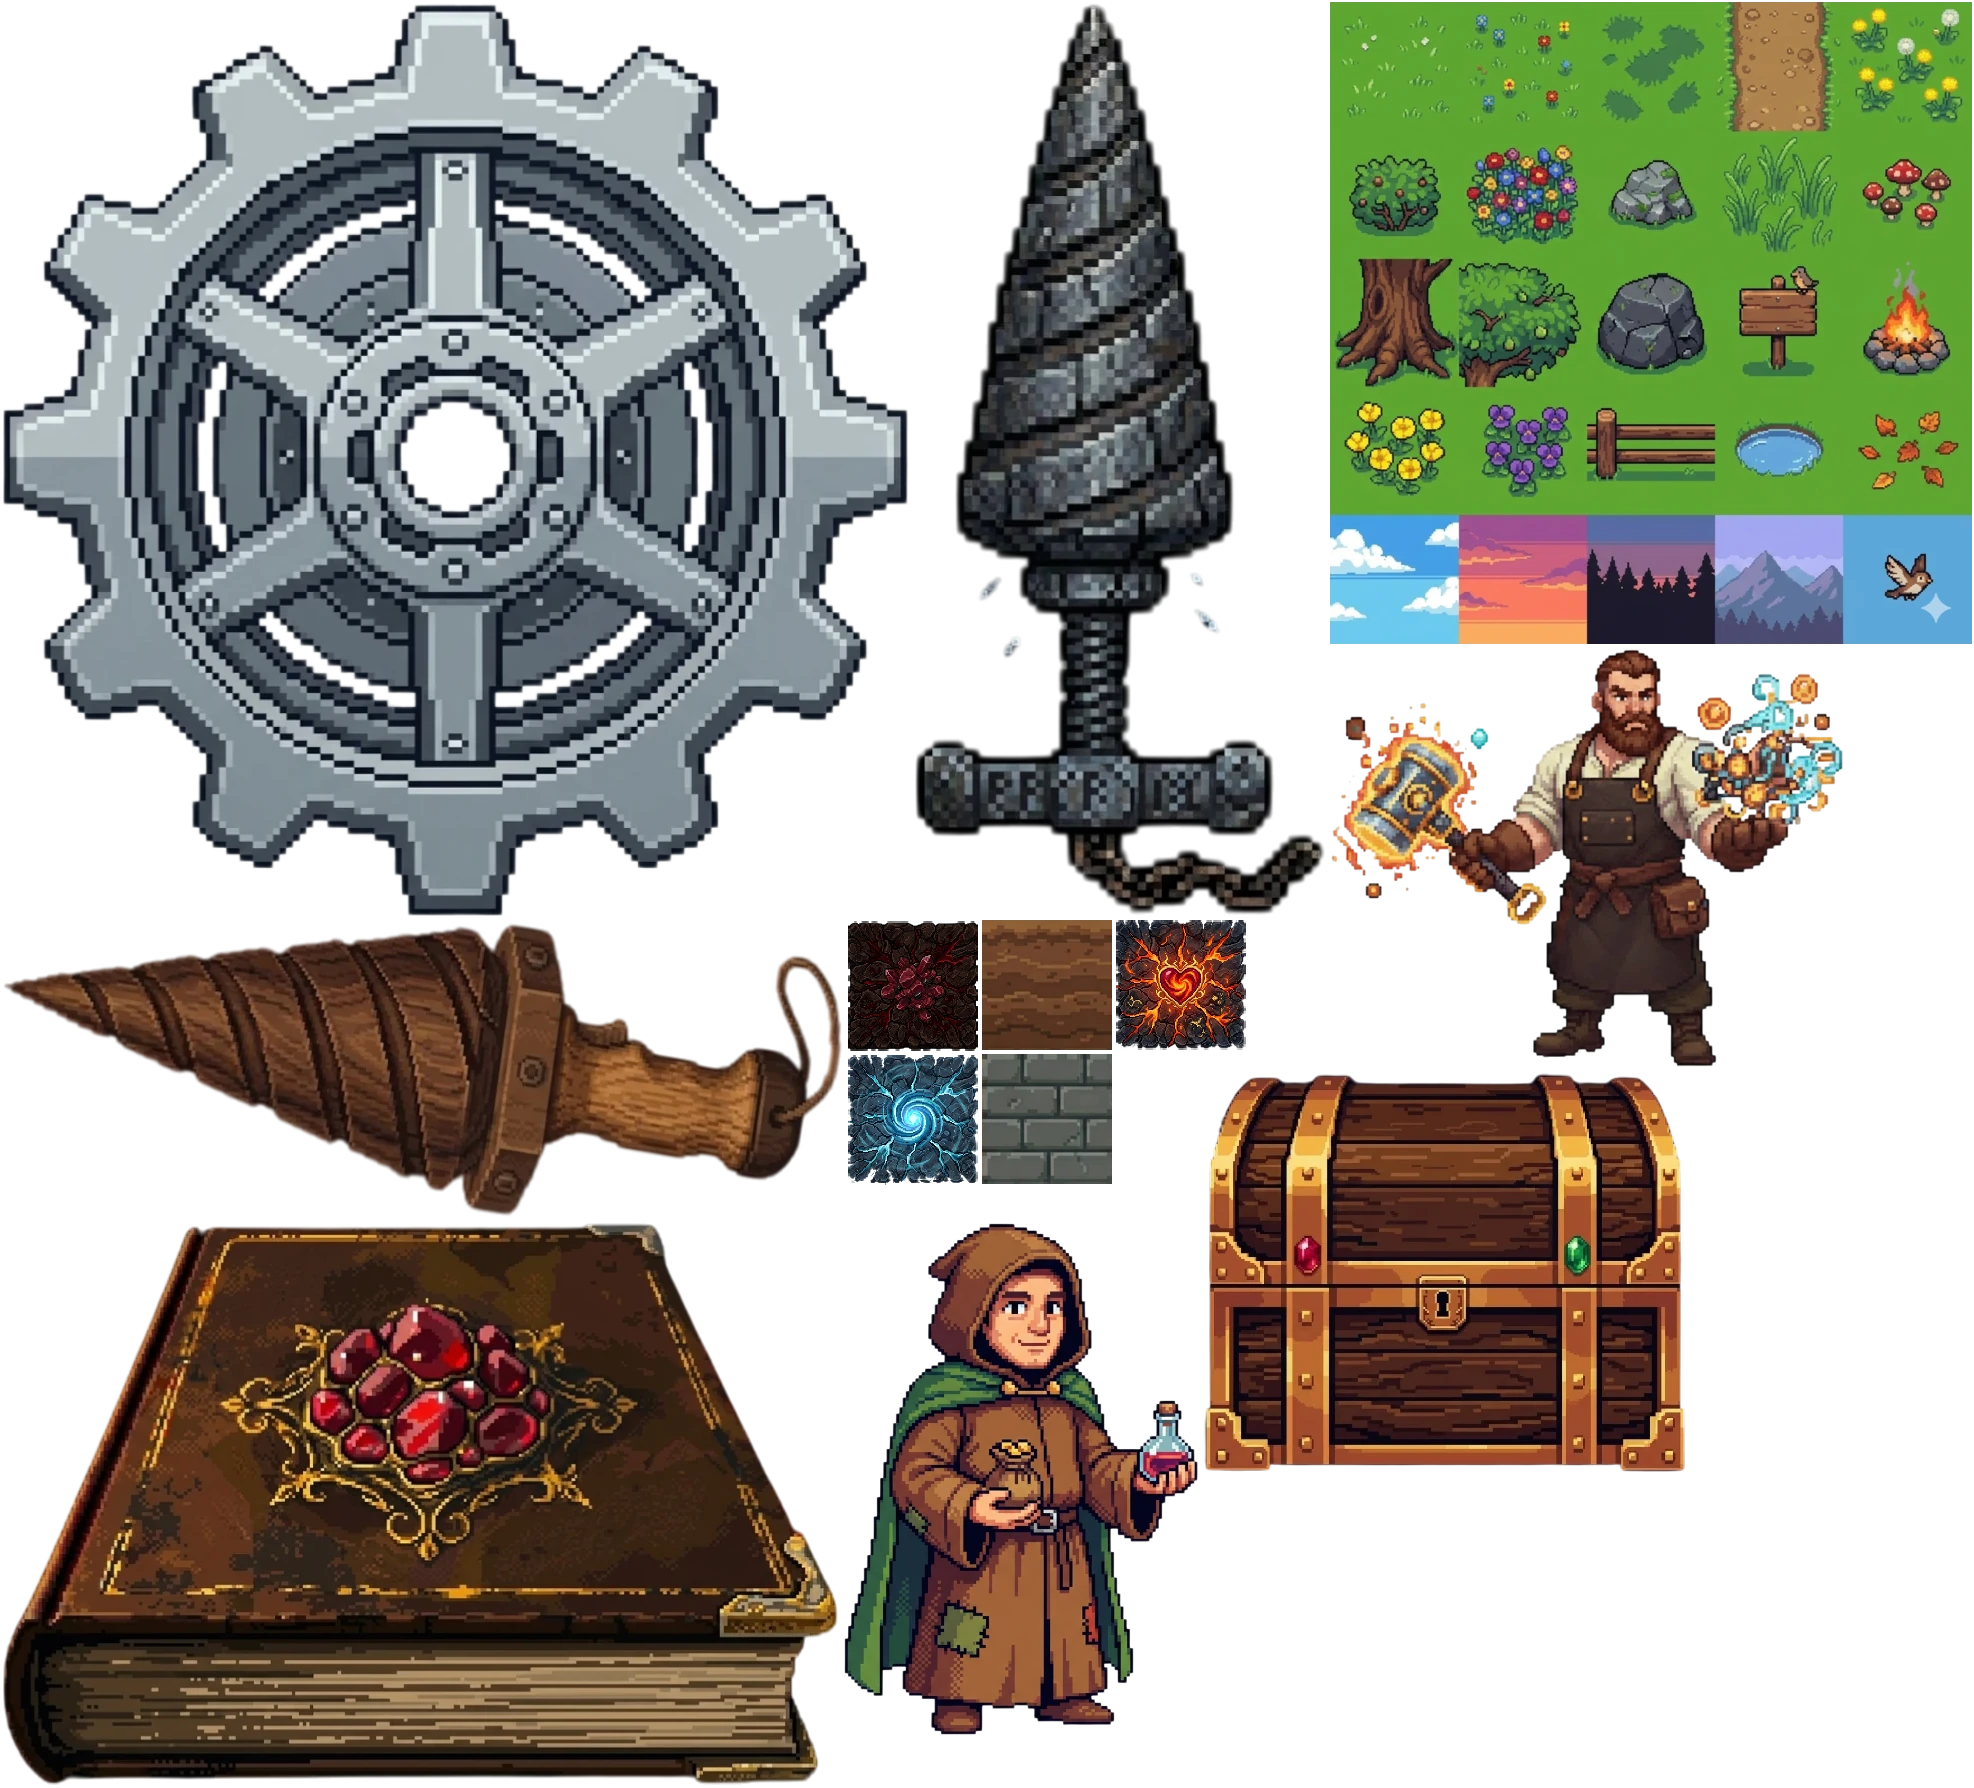
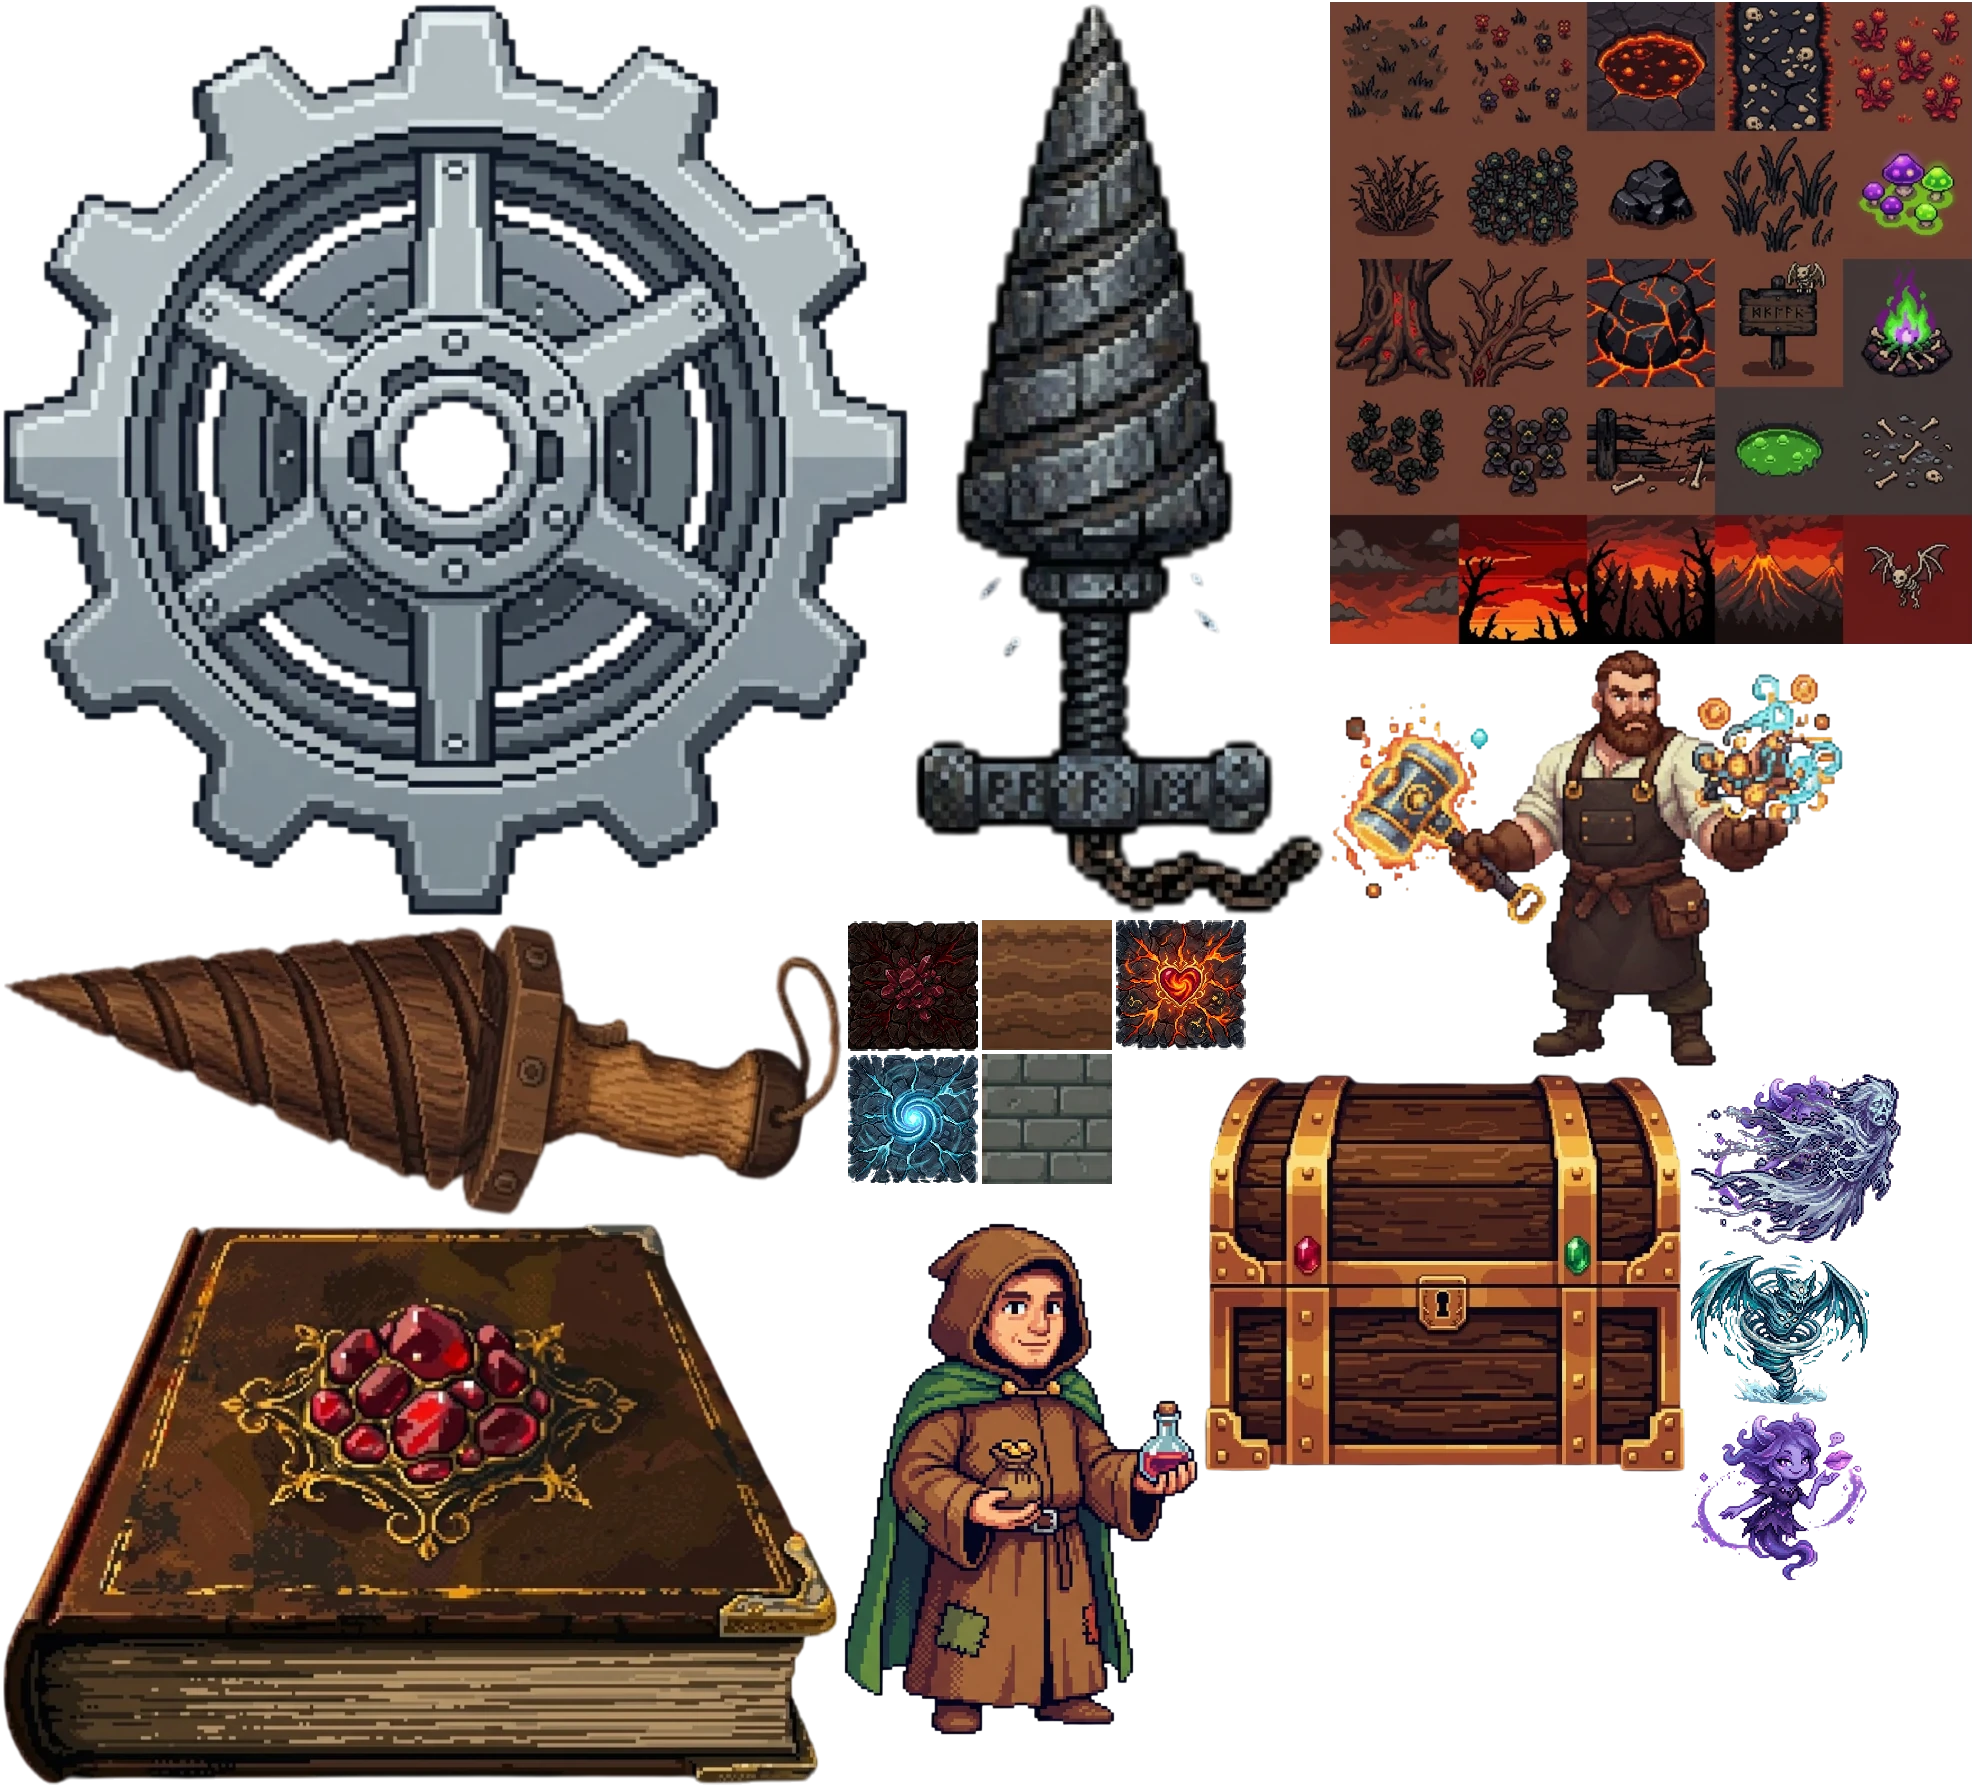
feat: 지옥 보스 데이터 전면 개편 (Circle 2~9) #32

Changed region(s): [[0.6489, 0.0, 1.0, 0.3691], [0.8343, 0.5845, 0.958, 0.8921]]

diff --git a/src/shared/config/monsterData.ts b/src/shared/config/monsterData.ts
@@ -72,12 +72,12 @@ export const MONSTER_LIST: MonsterDefinition[] = [
     behavior: { movementType: 'chase', attackRange: 1.5, aggroRange: 5 }
   },
   {
-    id: 'c2_minos',
-    name: 'Minos (The Judge)',
-    nameKo: '심판자 미노스',
+    id: 'c2_asmodeus',
+    name: 'Asmodeus',
+    nameKo: '아스모데우스',
     type: 'boss',
     imagePath: 'oros_face',
-    description: 'Lust 서클의 지배자, 어비셜 로드입니다.',
+    description: '3개의 머리 (황소, 인간, 숫양), 불꽃 날개, 뱀 꼬리. 몸 전체에서 붉은 열기가 뿜어져 나옴',
     stats: { maxHp: 15000, power: 120, defense: 20, speed: 1.5, attackCooldown: 2000 },
     rewards: { exp: 7500, gold: 1500, drops: [] },
     behavior: { movementType: 'chase', attackRange: 2.5, aggroRange: 10 }
@@ -116,12 +116,12 @@ export const MONSTER_LIST: MonsterDefinition[] = [
     behavior: { movementType: 'chase', attackRange: 1.5, aggroRange: 5 }
   },
   {
-    id: 'c3_cerberus',
-    name: 'Cerberus',
-    nameKo: '케르베로스',
+    id: 'c3_beelzebub',
+    name: 'Beelzebub',
+    nameKo: '벨제붑',
     type: 'boss',
     imagePath: 'oros_face',
-    description: 'Gluttony 서클의 지배자, 어비셜 로드입니다.',
+    description: '거대한 파리 형태, 썩은 날개, 복부가 비정상적으로 부풀어있음. 주변에 파리 떼가 항상 들끓음',
     stats: { maxHp: 45000, power: 250, defense: 20, speed: 1.5, attackCooldown: 2000 },
     rewards: { exp: 22500, gold: 4500, drops: [] },
     behavior: { movementType: 'chase', attackRange: 2.5, aggroRange: 10 }
@@ -160,12 +160,12 @@ export const MONSTER_LIST: MonsterDefinition[] = [
     behavior: { movementType: 'chase', attackRange: 1.5, aggroRange: 5 }
   },
   {
-    id: 'c4_plutus',
-    name: 'Plutus',
-    nameKo: '플루토스',
+    id: 'c4_mammon',
+    name: 'Mammon',
+    nameKo: '마몬',
     type: 'boss',
     imagePath: 'oros_face',
-    description: 'Greed 서클의 지배자, 어비셜 로드입니다.',
+    description: '황금 갑옷으로 뒤덮인 거대 인간형, 눈이 황금 동전. 몸에서 금화가 흘러내림',
     stats: { maxHp: 120000, power: 500, defense: 20, speed: 1.5, attackCooldown: 2000 },
     rewards: { exp: 60000, gold: 12000, drops: [] },
     behavior: { movementType: 'chase', attackRange: 2.5, aggroRange: 10 }
@@ -204,12 +204,12 @@ export const MONSTER_LIST: MonsterDefinition[] = [
     behavior: { movementType: 'chase', attackRange: 1.5, aggroRange: 5 }
   },
   {
-    id: 'c5_phlegyas',
-    name: 'Phlegyas',
-    nameKo: '플레기아스',
+    id: 'c5_azazel',
+    name: 'Azazel',
+    nameKo: '아자젤',
     type: 'boss',
     imagePath: 'oros_face',
-    description: 'Wrath 서클의 지배자, 어비셜 로드입니다.',
+    description: '타락한 천사, 검게 그을린 날개, 온몸에 쇠사슬이 감겨있음. 눈에서 붉은 불꽃',
     stats: { maxHp: 350000, power: 1200, defense: 20, speed: 1.5, attackCooldown: 2000 },
     rewards: { exp: 175000, gold: 35000, drops: [] },
     behavior: { movementType: 'chase', attackRange: 2.5, aggroRange: 10 }
@@ -248,12 +248,12 @@ export const MONSTER_LIST: MonsterDefinition[] = [
     behavior: { movementType: 'chase', attackRange: 1.5, aggroRange: 5 }
   },
   {
-    id: 'c6_farinata',
-    name: 'Farinata',
-    nameKo: '파리나타',
+    id: 'c6_samael',
+    name: 'Samael',
+    nameKo: '사마엘',
     type: 'boss',
     imagePath: 'oros_face',
-    description: 'Heresy 서클의 지배자, 어비셜 로드입니다.',
+    description: '검게 물든 천사 날개, 온몸에 독이 흘러내림. 피부는 창백하고 균열이 가득하며 틈에서 보라빛 독액이 흘러나옴. 부러진 후광, 독이 묻은 검',
     stats: { maxHp: 900000, power: 3500, defense: 20, speed: 1.5, attackCooldown: 2000 },
     rewards: { exp: 450000, gold: 90000, drops: [] },
     behavior: { movementType: 'chase', attackRange: 2.5, aggroRange: 10 }
@@ -292,12 +292,12 @@ export const MONSTER_LIST: MonsterDefinition[] = [
     behavior: { movementType: 'chase', attackRange: 1.5, aggroRange: 5 }
   },
   {
-    id: 'c7_minotaur',
-    name: 'Minotaur',
-    nameKo: '미노타우로스',
+    id: 'c7_belial',
+    name: 'Belial',
+    nameKo: '벨리알',
     type: 'boss',
     imagePath: 'oros_face',
-    description: 'Violence 서클의 지배자, 어비셜 로드입니다.',
+    description: '불꽃 전차를 탄 타락천사, 두 개의 검은 날개, 온몸이 불꽃으로 이루어진 형태',
     stats: { maxHp: 3000000, power: 15000, defense: 20, speed: 1.5, attackCooldown: 2000 },
     rewards: { exp: 1500000, gold: 300000, drops: [] },
     behavior: { movementType: 'chase', attackRange: 2.5, aggroRange: 10 }
@@ -336,12 +336,12 @@ export const MONSTER_LIST: MonsterDefinition[] = [
     behavior: { movementType: 'chase', attackRange: 1.5, aggroRange: 5 }
   },
   {
-    id: 'c8_geryon',
-    name: 'Geryon',
-    nameKo: '게리온',
+    id: 'c8_abaddon',
+    name: 'Abaddon',
+    nameKo: '아바돈',
     type: 'boss',
     imagePath: 'oros_face',
-    description: 'Fraud 서클의 지배자, 어비셜 로드입니다.',
+    description: '거대한 메뚜기 형태, 전갈 꼬리, 철 갑옷을 두른 날개. 주변에 메뚜기 군단이 들끓음',
     stats: { maxHp: 12000000, power: 45000, defense: 20, speed: 1.5, attackCooldown: 2000 },
     rewards: { exp: 6000000, gold: 1200000, drops: [] },
     behavior: { movementType: 'chase', attackRange: 2.5, aggroRange: 10 }
@@ -385,7 +385,7 @@ export const MONSTER_LIST: MonsterDefinition[] = [
     nameKo: '루시퍼',
     type: 'boss',
     imagePath: 'oros_face',
-    description: 'Treachery 서클의 지배자, 어비셜 로드입니다.',
+    description: '3개의 얼굴, 거대한 얼음에 하반신이 갇혀있음. 6개의 날개는 부러지고 검게 타있음. 눈물이 얼어붙어 있음',
     stats: { maxHp: 100000000, power: 250000, defense: 20, speed: 1.5, attackCooldown: 2000 },
     rewards: { exp: 50000000, gold: 10000000, drops: [] },
     behavior: { movementType: 'chase', attackRange: 2.5, aggroRange: 10 }

diff --git a/src/shared/config/circleData.ts b/src/shared/config/circleData.ts
@@ -61,26 +61,26 @@ export const CIRCLES: CircleConfig[] = [
       { monsterId: 'c2_wind_soul', chance: 0.03, weight: 1, minLayer: 2, maxLayer: 3 },
       { monsterId: 'c2_gale_bat', chance: 0.02, weight: 1, minLayer: 3, maxLayer: 3 },
     ],
-    boss: { id: 'c2_minos', spawnLayer: 4 }
+    boss: { id: 'c2_asmodeus', spawnLayer: 4 }
   },
   { id: 3, name: 'Gluttony', nameKo: '탐식', theme: '부패, 진흙, 공허', bgType: 'stone', depthStart: 300, depthEnd: 600,
     minerals: [ { type: 'moldstone', threshold: 0.20, minLayer: 1, scale: 8 }, { type: 'siltstone', threshold: 0.15, minLayer: 2, scale: 7 }, { type: 'gorestone', threshold: 0.10, minLayer: 3, scale: 6 } ],
-    monsters: [ { monsterId: 'c3_devourer', chance: 0.05, weight: 1, minLayer: 1 }, { monsterId: 'c3_worm', chance: 0.03, weight: 1, minLayer: 2 }, { monsterId: 'c3_mud_shade', chance: 0.02, weight: 1, minLayer: 3 } ], boss: { id: 'c3_cerberus', spawnLayer: 4 } },
+    monsters: [ { monsterId: 'c3_devourer', chance: 0.05, weight: 1, minLayer: 1 }, { monsterId: 'c3_worm', chance: 0.03, weight: 1, minLayer: 2 }, { monsterId: 'c3_mud_shade', chance: 0.02, weight: 1, minLayer: 3 } ], boss: { id: 'c3_beelzebub', spawnLayer: 4 } },
   { id: 4, name: 'Greed', nameKo: '탐욕', theme: '황금, 욕망, 차가운 빛', bgType: 'stone', depthStart: 600, depthEnd: 900,
     minerals: [ { type: 'goldstone', threshold: 0.20, minLayer: 1, scale: 8 }, { type: 'luststone', threshold: 0.15, minLayer: 2, scale: 7 }, { type: 'midasite', threshold: 0.10, minLayer: 3, scale: 6 } ],
-    monsters: [{ monsterId: 'c4_hoarder', chance: 0.05, weight: 1, minLayer: 1 }], boss: { id: 'c4_plutus', spawnLayer: 4 } },
+    monsters: [{ monsterId: 'c4_hoarder', chance: 0.05, weight: 1, minLayer: 1 }], boss: { id: 'c4_mammon', spawnLayer: 4 } },
   { id: 5, name: 'Wrath', nameKo: '분노', theme: '용암, 불꽃, 격노', bgType: 'stone', depthStart: 900, depthEnd: 1200,
     minerals: [ { type: 'ragestone', threshold: 0.20, minLayer: 1, scale: 8 }, { type: 'cinderstone', threshold: 0.15, minLayer: 2, scale: 7 }, { type: 'furystone', threshold: 0.10, minLayer: 3, scale: 6 } ],
-    monsters: [{ monsterId: 'c5_dweller', chance: 0.05, weight: 1, minLayer: 1 }], boss: { id: 'c5_phlegyas', spawnLayer: 4 } },
+    monsters: [{ monsterId: 'c5_dweller', chance: 0.05, weight: 1, minLayer: 1 }], boss: { id: 'c5_azazel', spawnLayer: 4 } },
   { id: 6, name: 'Heresy', nameKo: '이단', theme: '재, 저주, 어둠', bgType: 'stone', depthStart: 1200, depthEnd: 1500,
     minerals: [ { type: 'ashstone', threshold: 0.20, minLayer: 1, scale: 8 }, { type: 'blightstone', threshold: 0.15, minLayer: 2, scale: 7 }, { type: 'vexite', threshold: 0.10, minLayer: 3, scale: 6 } ],
-    monsters: [{ monsterId: 'c6_priest', chance: 0.05, weight: 1, minLayer: 1 }], boss: { id: 'c6_farinata', spawnLayer: 4 } },
+    monsters: [{ monsterId: 'c6_priest', chance: 0.05, weight: 1, minLayer: 1 }], boss: { id: 'c6_samael', spawnLayer: 4 } },
   { id: 7, name: 'Violence', nameKo: '폭력', theme: '피, 가시, 잔혹', bgType: 'stone', depthStart: 1500, depthEnd: 1800,
     minerals: [ { type: 'thornstone', threshold: 0.20, minLayer: 1, scale: 8 }, { type: 'bloodstone', threshold: 0.15, minLayer: 2, scale: 7 }, { type: 'cruelite', threshold: 0.10, minLayer: 3, scale: 6 } ],
-    monsters: [{ monsterId: 'c7_centaur', chance: 0.05, weight: 1, minLayer: 1 }], boss: { id: 'c7_minotaur', spawnLayer: 4 } },
+    monsters: [{ monsterId: 'c7_centaur', chance: 0.05, weight: 1, minLayer: 1 }], boss: { id: 'c7_belial', spawnLayer: 4 } },
   { id: 8, name: 'Fraud', nameKo: '사기', theme: '기만, 그림자, 이중성', bgType: 'stone', depthStart: 1800, depthEnd: 2100,
     minerals: [ { type: 'mimicite', threshold: 0.20, minLayer: 1, scale: 8 }, { type: 'lurerstone', threshold: 0.15, minLayer: 2, scale: 7 }, { type: 'phantomite', threshold: 0.10, minLayer: 3, scale: 6 } ],
-    monsters: [{ monsterId: 'c8_malebranche', chance: 0.05, weight: 1, minLayer: 1 }], boss: { id: 'c8_geryon', spawnLayer: 4 } },
+    monsters: [{ monsterId: 'c8_malebranche', chance: 0.05, weight: 1, minLayer: 1 }], boss: { id: 'c8_abaddon', spawnLayer: 4 } },
   { id: 9, name: 'Treachery', nameKo: '배신', theme: '얼음, 침묵, 칠흑', bgType: 'stone', depthStart: 2100, depthEnd: 2400,
     minerals: [ { type: 'froststone', threshold: 0.20, minLayer: 1, scale: 8 }, { type: 'glacialite', threshold: 0.15, minLayer: 2, scale: 7 }, { type: 'abyssstone', threshold: 0.10, minLayer: 3, scale: 6 } ],
     monsters: [{ monsterId: 'c9_sinner', chance: 0.05, weight: 1, minLayer: 1 }], boss: { id: 'c9_lucifer', spawnLayer: 4 } }
